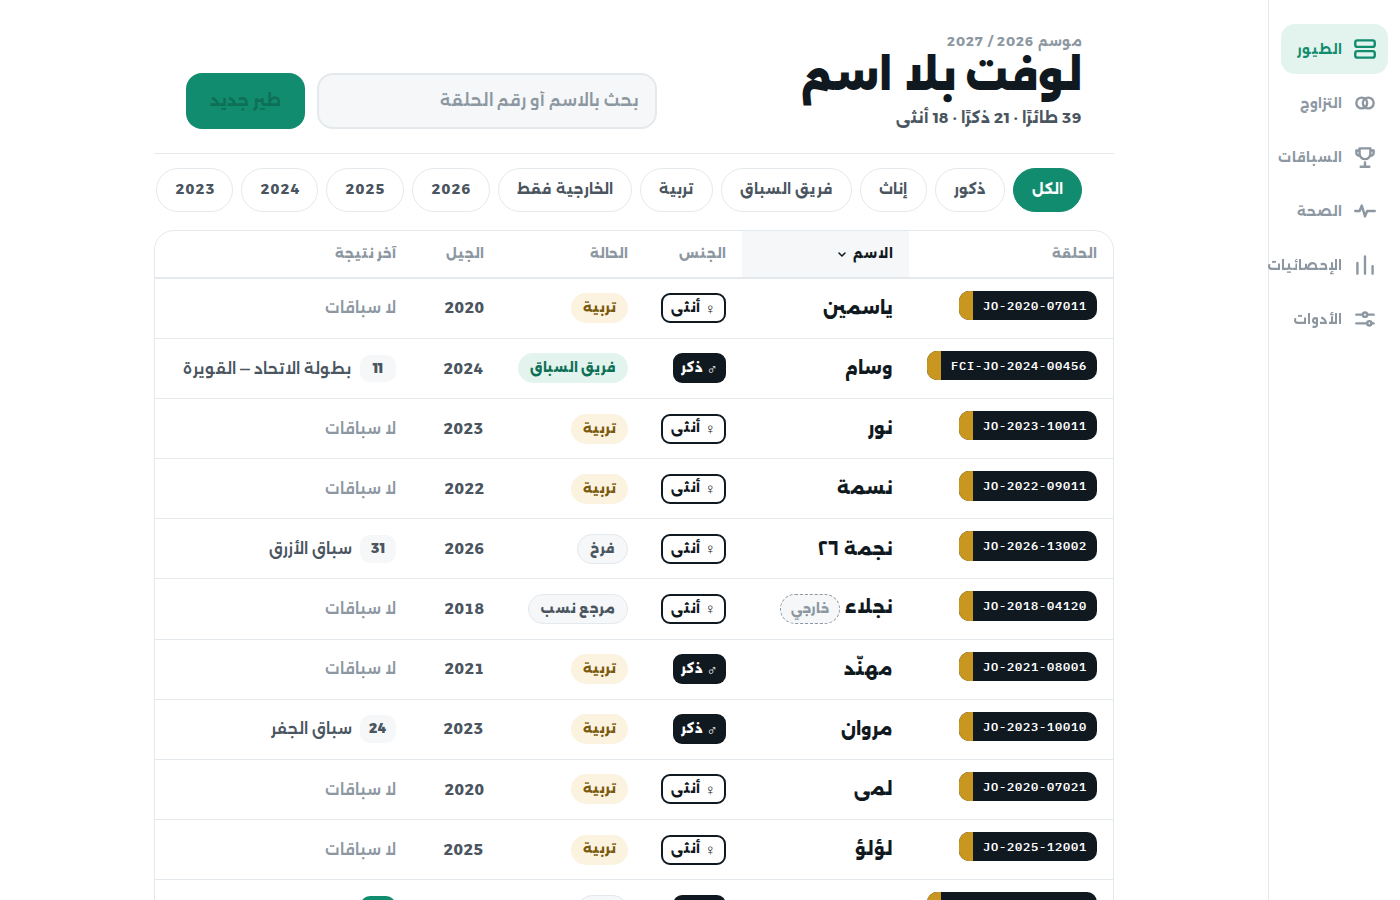
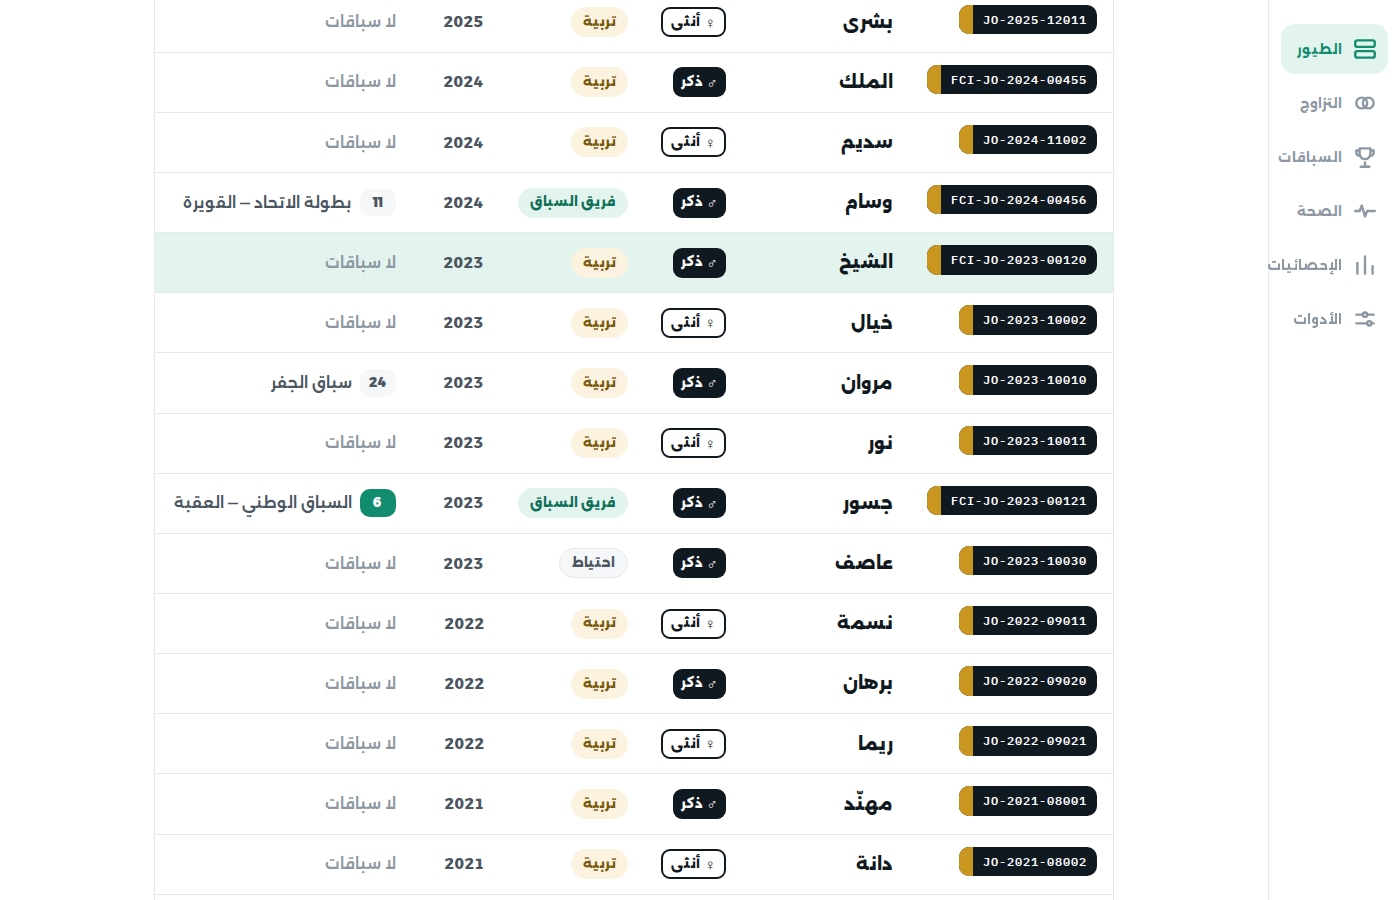
chore(next): delete the nineteen orphan captures, and capture full-1400 in the state it claims
RULED: stale artefacts that never drift are worse than honest drifting ones.

fidelity/high-contrast/ (12) and fidelity/pwa/ (7) were committed and no suite wrote them —
captured by hand at 4D acceptance (a428bb3) and Phase 5 (48faa77), so frozen from BEFORE the
Phase 6 fidelity fixes (2c4b3b7): before the two dead tree-connector systems were repaired,
before the certificate had a desktop layout at all, before the focus rings and print rules.
They showed screens that no longer exist, and because they never drifted they looked more
trustworthy than the 143 that do. Deleted. fidelity/ is now 143 PNGs, one per capture site.

A CORRECTION IN THE SAME COMMIT, because I recorded an agent's claim without checking it.
0453132 said loft-home/full-1400.png was written twice, at loft_home.py:71 and again at :193.
That is FALSE — the loop at :70 is `for w in (430, 900)` and always has been; the file is
written once. Verified against HEAD and against 5e0ab9d before writing this.

What was real is the STATE it was written in: the single capture sat at the end of the
desktop block, after two clicks on «الاسم» had sorted the table by name and reversed it. So
the filename said "full at 1400" and the picture was "full at 1400, sorted by name,
descending". It now happens immediately after the table is asserted present, on the default
sort — which is what the name claims.

README and PORT-COMPLETE.md corrected rather than quietly edited: the wrong claim is named.

diff --git a/tests/e2e/screens/loft_home.py b/tests/e2e/screens/loft_home.py
@@ -183,6 +183,11 @@ try:
         heads = pg.locator('[data-testid=th-sort]').all_inner_texts()
         check('1400: six table headers', [h_.strip() for h_ in heads] == ['الحلقة', 'الاسم', 'الجنس', 'الحالة', 'الجيل', 'آخر نتيجة'], heads)
         check('1400: phone list and FAB hidden, table shown', pg.locator('[data-testid=fab-add]').is_hidden() and pg.locator('[data-testid=table-row]').count() >= 30)
+        # captured HERE, in the state the filename claims: the full register at 1400 on its
+        # DEFAULT sort. It used to be captured at the end of this block, after two clicks on
+        # «الاسم» had re-sorted the table and reversed it — so the file said "full-1400" and
+        # the picture was "full-1400, sorted by name, descending".
+        shot(pg, path=f'{FID}/full-1400.png', full_page=False)
         first_before = pg.locator('[data-testid=table-row]').first.inner_text()
         pg.click('[data-testid=th-sort][data-key=name]'); pg.wait_for_timeout(200)
         names = pg.locator('[data-testid=table-row] [data-testid=cell-name]').all_inner_texts()
@@ -190,7 +195,6 @@ try:
         pg.click('[data-testid=th-sort][data-key=name]'); pg.wait_for_timeout(200)
         names2 = pg.locator('[data-testid=table-row] [data-testid=cell-name]').all_inner_texts()
         check('[ruling 6] second click reverses the sort', names2 == list(reversed(names)))
-        shot(pg, path=f'{FID}/full-1400.png', full_page=False)
         check('zero page errors', not errs, errs)
 
         # ── SMALL STATE (spec data-v="small": ≤ 8 birds) ──

diff --git a/README.md b/README.md
@@ -628,25 +628,29 @@ not portable and never were.** Case 6 means they change every day; case 7 means 
 the machine that made them. Treat them as "what Samir's machine rendered on the day", which
 is a useful thing for a human to look at and a useless thing to diff.
 
-### Nineteen of the PNGs are orphans, and two of them are a trap
+### The nineteen orphans — DELETED, and one claim about them was wrong
 
-`fidelity/` holds **162** PNGs. The 34 capture sites write **143**. The other nineteen —
-`fidelity/high-contrast/` (12) and `fidelity/pwa/` (7) — are committed and **no suite writes
-them**. They were captured by hand: the high-contrast set during 4D acceptance (`a428bb3`),
-the PWA set during Phase 5 (`48faa77`). The only `high-contrast` string anywhere in `tests/`
-is a class assertion in `tools.py:170`, not a capture.
+`fidelity/` held **162** PNGs while the 34 capture sites write **143**. The other nineteen —
+`fidelity/high-contrast/` (12) and `fidelity/pwa/` (7) — were committed and **no suite wrote
+them**: captured by hand, the high-contrast set at 4D acceptance (`a428bb3`), the PWA set at
+Phase 5 (`48faa77`). The only `high-contrast` string in `tests/` is a class assertion at
+`tools.py:170`, not a capture.
 
-**So they are frozen before the Phase 6 fidelity fixes (`2c4b3b7`)** — before the two dead
-tree-connector systems were repaired, before the certificate got its desktop layout at all,
-before the focus rings and the print rules. Read as "what the app looks like", they show
-screens that no longer exist. They do not drift, which makes them look MORE trustworthy than
-the 143 that do, and they are the least trustworthy of the set. Either a suite should
-regenerate them or they should go; until one of those happens, this paragraph is the warning.
+They were frozen from **before the Phase 6 fidelity fixes** (`2c4b3b7`) — before the two dead
+tree-connector systems were repaired, before the certificate had a desktop layout at all,
+before the focus rings and the print rules. They never drifted, which made them look more
+trustworthy than the 143 that do while being the least trustworthy of the set. **Ruled at the
+pre-launch close: deleted.** If those views are worth capturing, a suite regenerates them.
+`fidelity/` is now 143 PNGs and every one of them has a suite that writes it.
 
-One smaller artefact bug in the same family: `loft-home/full-1400.png` is written **twice**
-by one suite — once inside the width loop at `loft_home.py:71` and again at `:193`, after the
-table has been sorted by name. The committed file is the second state, so the name says
-"full at 1400" and the picture is "full at 1400, re-sorted". The first write is dead work.
+**A correction, because it was recorded here on an agent's word and it was wrong.** An
+earlier draft of this section said `loft-home/full-1400.png` was written twice, at
+`loft_home.py:71` and again at `:193`. It was not — that loop is `for w in (430, 900)` and
+always has been. The file is written once. What WAS real is the state it was written in: the
+single capture sat at the end of the desktop block, *after* two clicks on «الاسم» had sorted
+the table by name and then reversed it, so the filename said "full at 1400" and the picture
+was "full at 1400, sorted by name, descending". The capture now happens immediately after the
+table is asserted present, on its default sort.
 
 
 

diff --git a/PORT-COMPLETE.md b/PORT-COMPLETE.md
@@ -233,10 +233,10 @@ them as "what one machine rendered on the day". `README.md` has the full table.
   the UI. Seeding those would mean reaching past the UI the assertion exercises. They drift,
   and `README.md` lists them.
 
-**Nineteen of the 162 PNGs are orphans.** `fidelity/high-contrast/` (12) and `fidelity/pwa/`
-(7) are committed and no suite writes them — they were captured by hand at 4D and Phase 5,
-so they are frozen from **before** the Phase 6 fidelity fixes and show screens that no longer
-exist. They never drift, which makes them look more trustworthy than the 143 that do.
+**`fidelity/` is 143 PNGs and every one has a suite that writes it.** Nineteen orphans —
+`high-contrast/` and `pwa/`, captured by hand at 4D and Phase 5 and therefore frozen from
+before the Phase 6 fidelity fixes — were deleted at the pre-launch close. They never drifted,
+which made them look more trustworthy than the 143 that do.
 
 **The clock freeze was implemented, measured, and removed.** `page.clock.set_fixed_time()`
 wipes the performance timeline — `performance.getEntriesByType('navigation').length` goes
